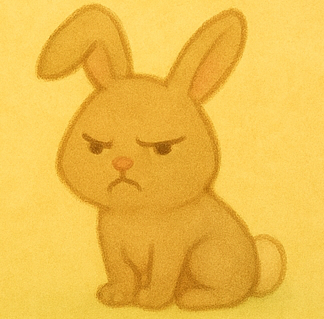
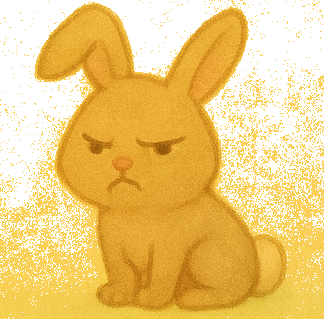
remove_image_backgrounds bei den animals WIP: bei 1_5_pitches_good_sheep.png	und 1_5_pitches_good_cat.png	ist zu viel raus

diff --git a/tools/remove_image_backgrounds.py b/tools/remove_image_backgrounds.py
@@ -1,0 +1,138 @@
+#!/usr/bin/env python3
+"""
+Dieses Skript entfernt Hintergründe von Bildern, indem die Farbe in der oberen 
+linken Ecke als Referenz genommen wird. Alle Farben, die innerhalb eines 
+gewissen Schwellenwerts dieser Farbe ähneln, werden transparent gesetzt.
+
+Originale werden in einem 'originals'-Verzeichnis gesichert.
+"""
+
+import os
+import sys
+import shutil
+from PIL import Image
+
+# Konfiguration
+COLOR_THRESHOLD = 30  # Farbähnlichkeits-Schwellenwert (0-255), höher = mehr Toleranz
+ORIGINALS_DIR = "images/originals"
+PUBLIC_DIR = "public"  # Basis-Verzeichnis für öffentliche Dateien
+
+# Liste der zu bearbeitenden Bilder, relativ zum PUBLIC_DIR
+ANIMAL_IMAGES = [
+    # Positive Bilder
+    '/images/1_5_pitches_good_bird_notes.png',
+    '/images/1_5_pitches_good_bird.png',
+    '/images/1_5_pitches_good_cat.png',
+    '/images/1_5_pitches_good_deer.png',
+    '/images/1_5_pitches_good_dog.png',
+    '/images/1_5_pitches_good_hedgehog.png',
+    '/images/1_5_pitches_good_pig.png',
+    '/images/1_5_pitches_good_ladybug.png',
+    '/images/1_5_pitches_good_sheep.png',
+    # Negative Bilder
+    '/images/1_5_pitches_bad_bug.png',
+    '/images/1_5_pitches_bad_crab.png',
+    '/images/1_5_pitches_bad_cat.png',
+    '/images/1_5_pitches_bad_crow.png',
+    '/images/1_5_pitches_bad_rabbit.png',
+    '/images/1_5_pitches_bad_snake.png',
+]
+
+def color_distance(c1, c2):
+    """Berechnet den Farbabstand zwischen zwei RGB-Farben."""
+    return sum(abs(a - b) for a, b in zip(c1, c2))
+
+def backup_original(img_path):
+    """Sichert das Originalbild, falls es noch nicht existiert."""
+    # Absolute Pfade für Original- und Zieldateien
+    orig_abs_path = os.path.join(os.getcwd(), PUBLIC_DIR + img_path)
+    backup_dir = os.path.join(os.getcwd(), PUBLIC_DIR, ORIGINALS_DIR)
+    backup_file = os.path.join(backup_dir, os.path.basename(img_path))
+    
+    # Erstelle das Backup-Verzeichnis, falls es nicht existiert
+    os.makedirs(os.path.dirname(backup_file), exist_ok=True)
+    
+    # Kopiere das Original, wenn es noch nicht gesichert wurde
+    if not os.path.exists(backup_file):
+        print(f"Sichere Original nach {backup_file}...")
+        shutil.copy2(orig_abs_path, backup_file)
+        return True
+    return False
+
+def make_background_transparent(img_path, threshold=COLOR_THRESHOLD):
+    """Macht den Hintergrund transparent auf Basis der Farbe oben links."""
+    abs_path = os.path.join(os.getcwd(), PUBLIC_DIR + img_path)
+    
+    try:
+        # Öffne das Bild
+        img = Image.open(abs_path)
+        
+        # Konvertiere zu RGBA, falls nicht bereits
+        if img.mode != 'RGBA':
+            img = img.convert('RGBA')
+        
+        # Hole die Farbe vom Pixel oben links (0,0)
+        reference_color = img.getpixel((0, 0))[:3]  # RGB ohne Alpha
+        
+        # Erstelle neue Pixeldaten
+        data = img.getdata()
+        new_data = []
+        
+        for item in data:
+            # Vergleiche Farbähnlichkeit (ohne Alpha-Kanal)
+            if color_distance(item[:3], reference_color) < threshold:
+                # Wenn ähnlich, mache transparent
+                new_data.append((item[0], item[1], item[2], 0))
+            else:
+                # Behalte das Original-Pixel
+                new_data.append(item)
+        
+        # Aktualisiere das Bild mit neuen Daten
+        img.putdata(new_data)
+        
+        # Speichere das Ergebnis zurück
+        img.save(abs_path)
+        return True
+        
+    except Exception as e:
+        print(f"Fehler bei Bild {img_path}: {e}")
+        return False
+
+def process_all_images():
+    """Verarbeitet alle definierten Bilder."""
+    print("Starte Bildverarbeitung...")
+    
+    # Erstelle das Originals-Verzeichnis, falls es nicht existiert
+    originals_dir = os.path.join(os.getcwd(), PUBLIC_DIR, ORIGINALS_DIR)
+    os.makedirs(originals_dir, exist_ok=True)
+    
+    success_count = 0
+    for img_path in ANIMAL_IMAGES:
+        abs_path = os.path.join(os.getcwd(), PUBLIC_DIR + img_path)
+        
+        # Überprüfe, ob die Datei existiert
+        if not os.path.exists(abs_path):
+            print(f"Datei nicht gefunden: {abs_path}")
+            continue
+        
+        print(f"Verarbeite {img_path}...")
+        
+        # Sichere das Original
+        backup_original(img_path)
+        
+        # Mache Hintergrund transparent
+        if make_background_transparent(img_path):
+            success_count += 1
+    
+    print(f"\nVerarbeitung abgeschlossen: {success_count} von {len(ANIMAL_IMAGES)} Bilder erfolgreich verarbeitet.")
+
+if __name__ == "__main__":
+    # Parameter für Schwellenwert aus Kommandozeile
+    if len(sys.argv) > 1:
+        try:
+            COLOR_THRESHOLD = int(sys.argv[1])
+            print(f"Verwende Schwellenwert: {COLOR_THRESHOLD}")
+        except ValueError:
+            print(f"Ungültiger Schwellenwert, verwende Standard: {COLOR_THRESHOLD}")
+    
+    process_all_images()

diff --git a/dev/plan.md b/dev/plan.md
@@ -21,6 +21,7 @@
   - User provided a bird image to use as the new launcher icon foreground (see conversation, image 0)
   - Bird icon image is now available at /src/images/app_icon.png and ready for icon generation logic update
   - Version number in credits only shows "Loading version..."; fix version injection logic (now fixed)
+  - New requirement: Script to remove backgrounds from animal images (goodAnimalImages and badAnimalImages) by making top-left color transparent within a threshold, saving originals if not already present
 
 ## Task List
 - [x] Investigate and fix `this.showFeedback` context/definition bug so feedback is shown on success/failure
@@ -38,6 +39,7 @@
     - [x] Use the provided bird image as the new foreground for ic_launcher_foreground.png
     - [x] Update mobile-build.sh to generate mipmap icons from /src/images/app_icon.png
 - [x] Version number in credits does not load; fix version display
+- [x] Write a script to remove backgrounds from animal images, using top-left color as transparency reference, saving originals if not already present
 
 ## Current Goal
-Implement Android launcher icon is still white; update build script to use bird image
+Save and export progress in preferences/string

diff --git a/dev/TODO.md b/dev/TODO.md
@@ -127,7 +127,8 @@ Dies soll in allen aktionen:
 - fix gebogenen text
 - es kommt mehrmals in log "Generated sound judgment melody:..."
 - die tonlängen Stimmen noch nicht alle. 
-- die tiere müssen noch durchsichtigen rand haben
+- die tiere müssen noch durchsichtigen rand haben:
+ - ja@pitches.js#L78-94 write a script, das bei all diesen mages die bilder freistellt, also dass die farbe oben links im bild wählt und dann ausgehend von dem punkt sich ausdehnend die farben auf transparent setzt solange die nicht über einem bestimmten sthreshold abweichen. speichere die bilder dann unter s´dem selben namen, kopiere die bilder nach images/originals/ wenn sie noch nciht existieren
  - progress einbauen (unten anzeigen):
   - level 1: Es gibt 2 falsche noten, keine pause als fehler
   - level 2: Es gibt 2 falsche noten, Auch eine Pause ist als fehler möglich
